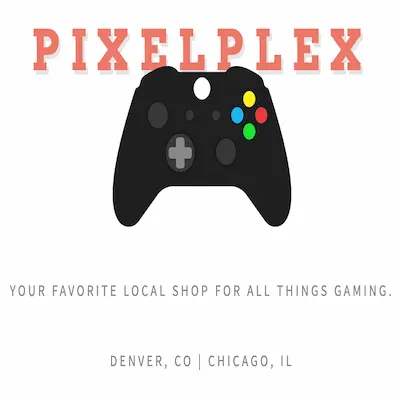
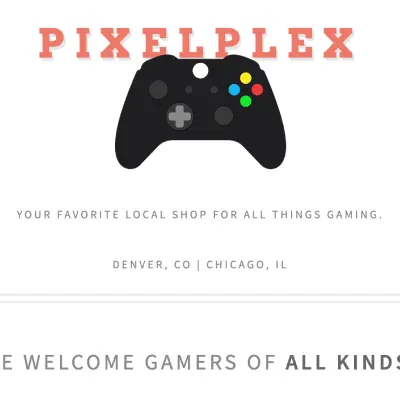
updated portfolio page and made responsive

diff --git a/assets/css/main.css b/assets/css/main.css
@@ -773,16 +773,15 @@ input[type="radio"]+label:before {
 
 .tech-description {
 	height: 0.5rem;
-	font-size: .8rem;
+	font-size: .9rem;
 	width: 80%;
 	padding-bottom: 8%;
 }
 
 .project-description {
-	height: 4.5rem;
-	font-size: .8rem;
-	width: 80%;
-	margin-bottom: 13%
+	height: 5em;
+	font-size: .9rem;
+	width: 95%;
 }
 
 /* Image */
@@ -879,6 +878,10 @@ input[type="radio"]+label:before {
 		margin-left: -1%;
 	}
 
+	.tech-description {
+		width: 100%;
+	}
+
 }
 
 @media screen and (max-width: 480px) {
@@ -896,6 +899,25 @@ input[type="radio"]+label:before {
 
 	#about p {
 		font-size: 14.5px;
+	}
+
+	.portfolio-card {
+		width: 100%;
+	}
+
+	.portfolio-card h6 {
+		font-size: .8rem;
+	}
+
+	.project-description {
+		width: 100%;
+		height: auto;
+		font-size: 1.2em;
+	}
+
+	.tech-description {
+		font-size: 1.2em;
+		height: auto;
 	}
 
 }
